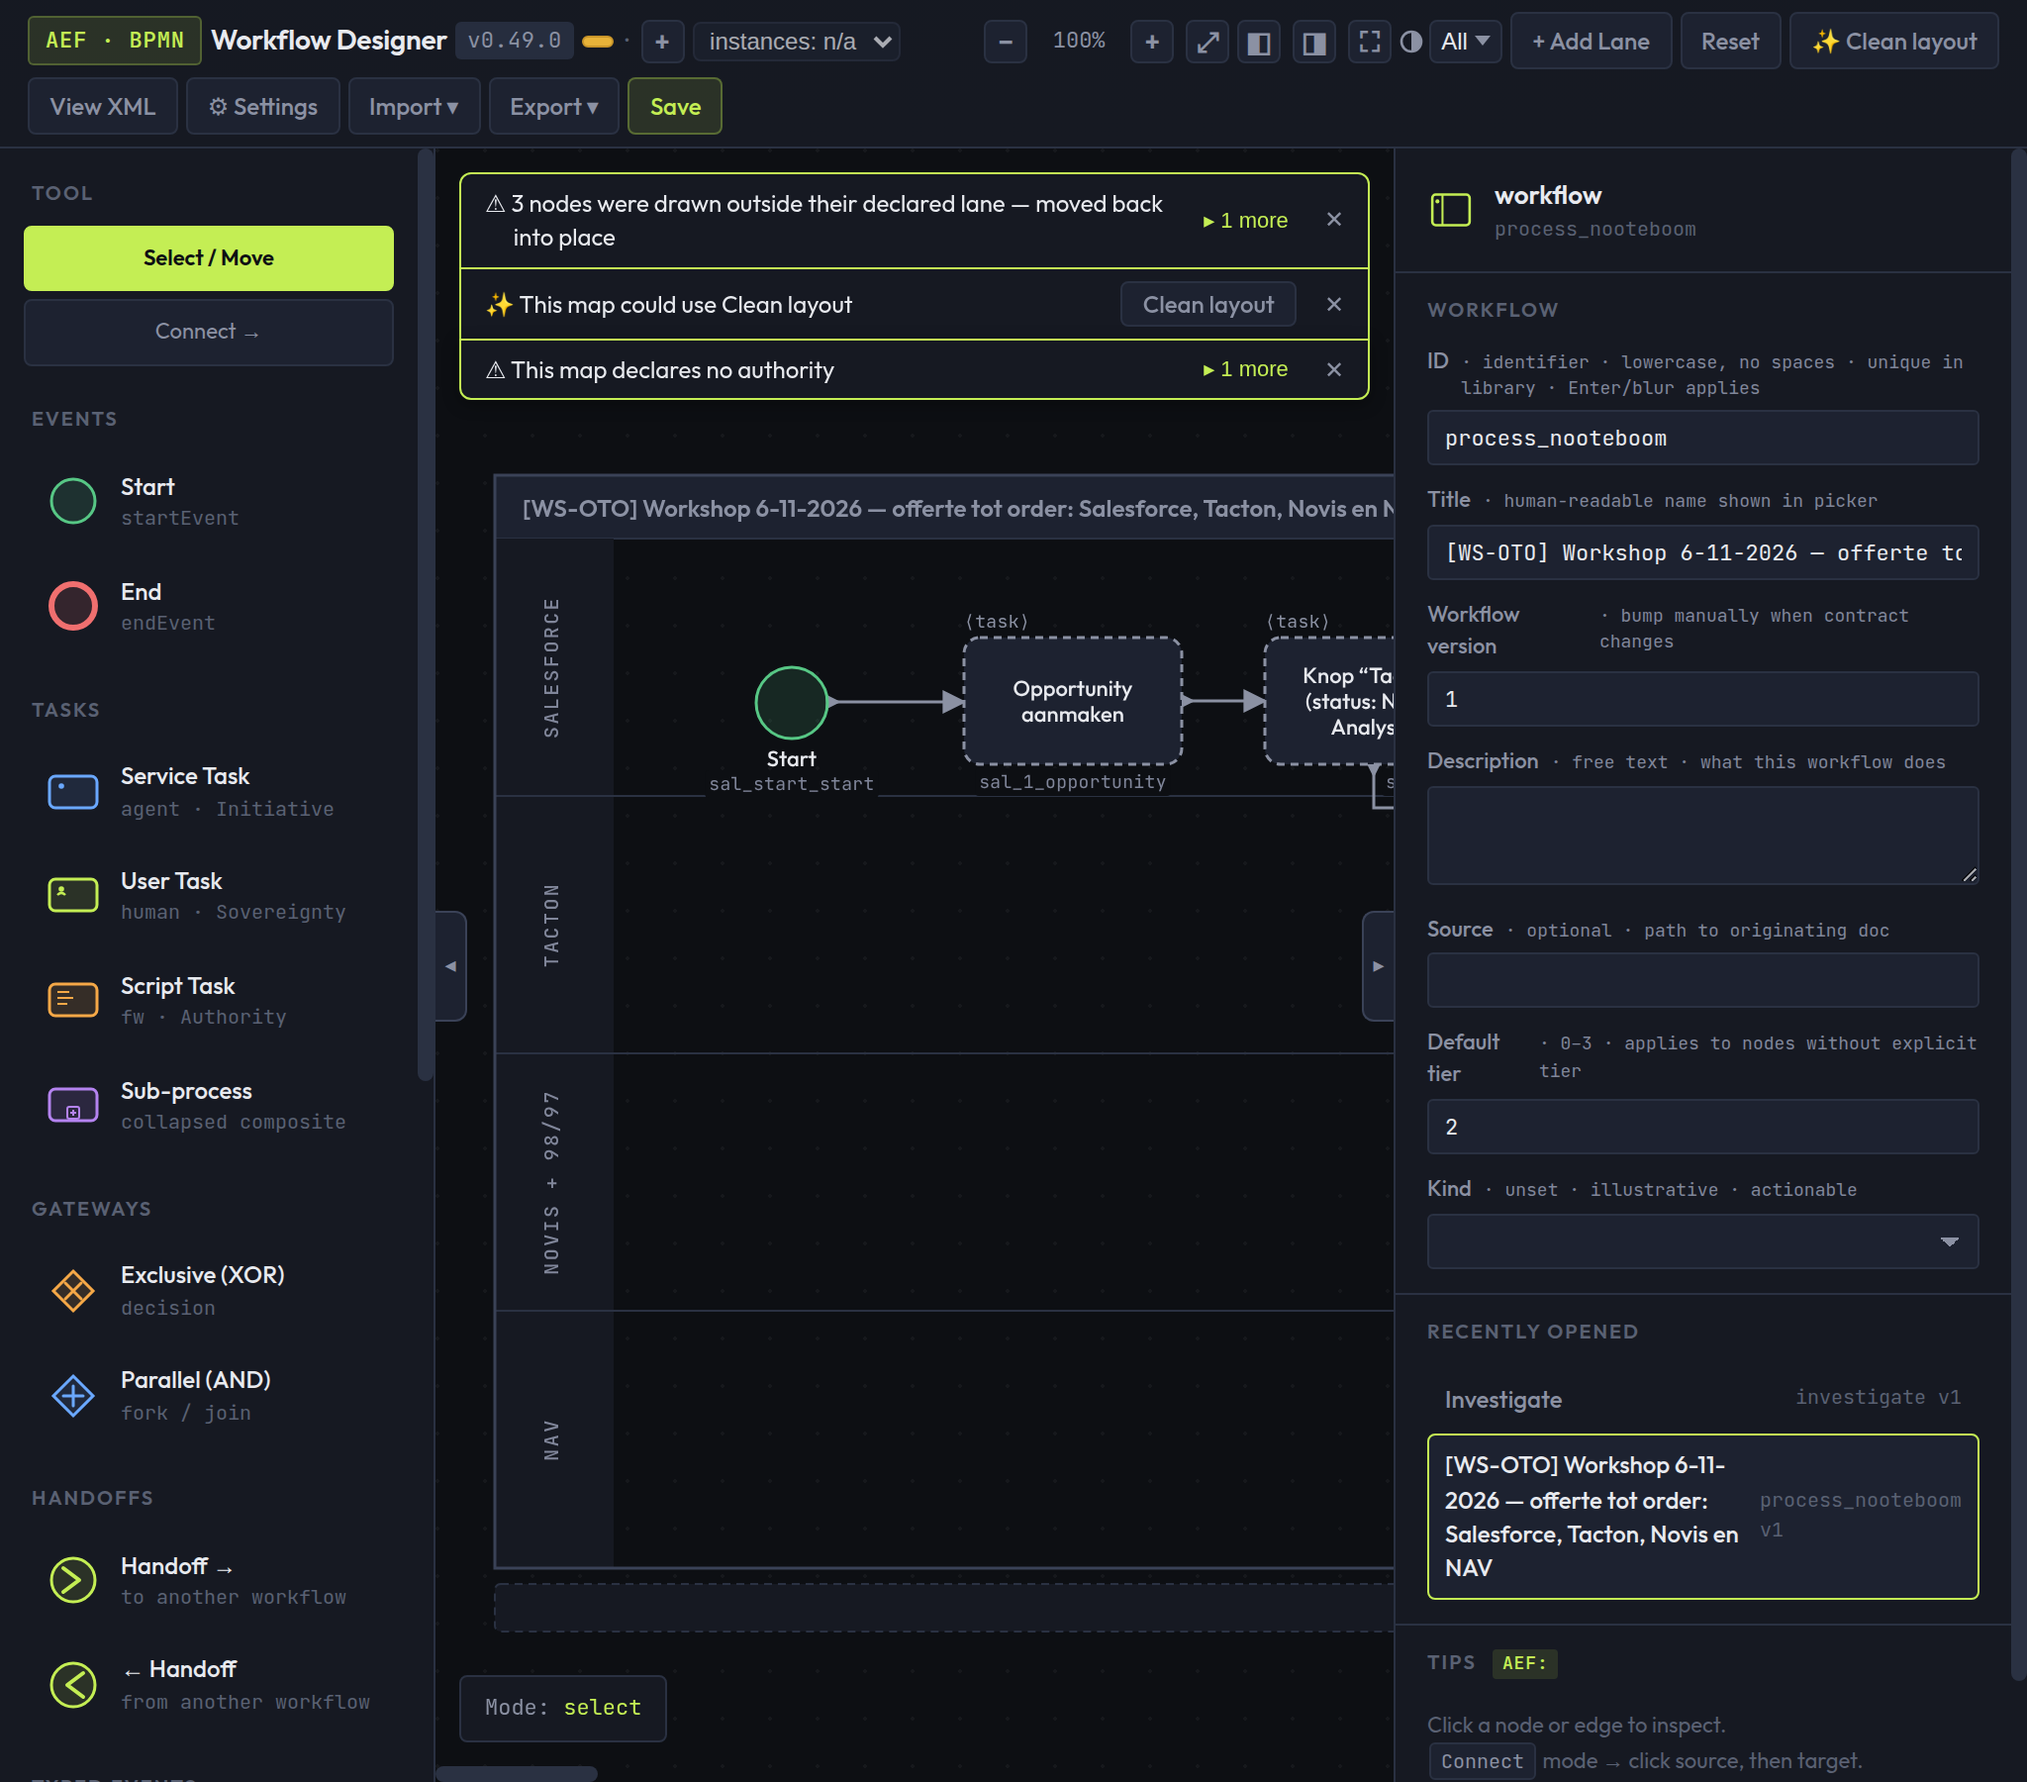
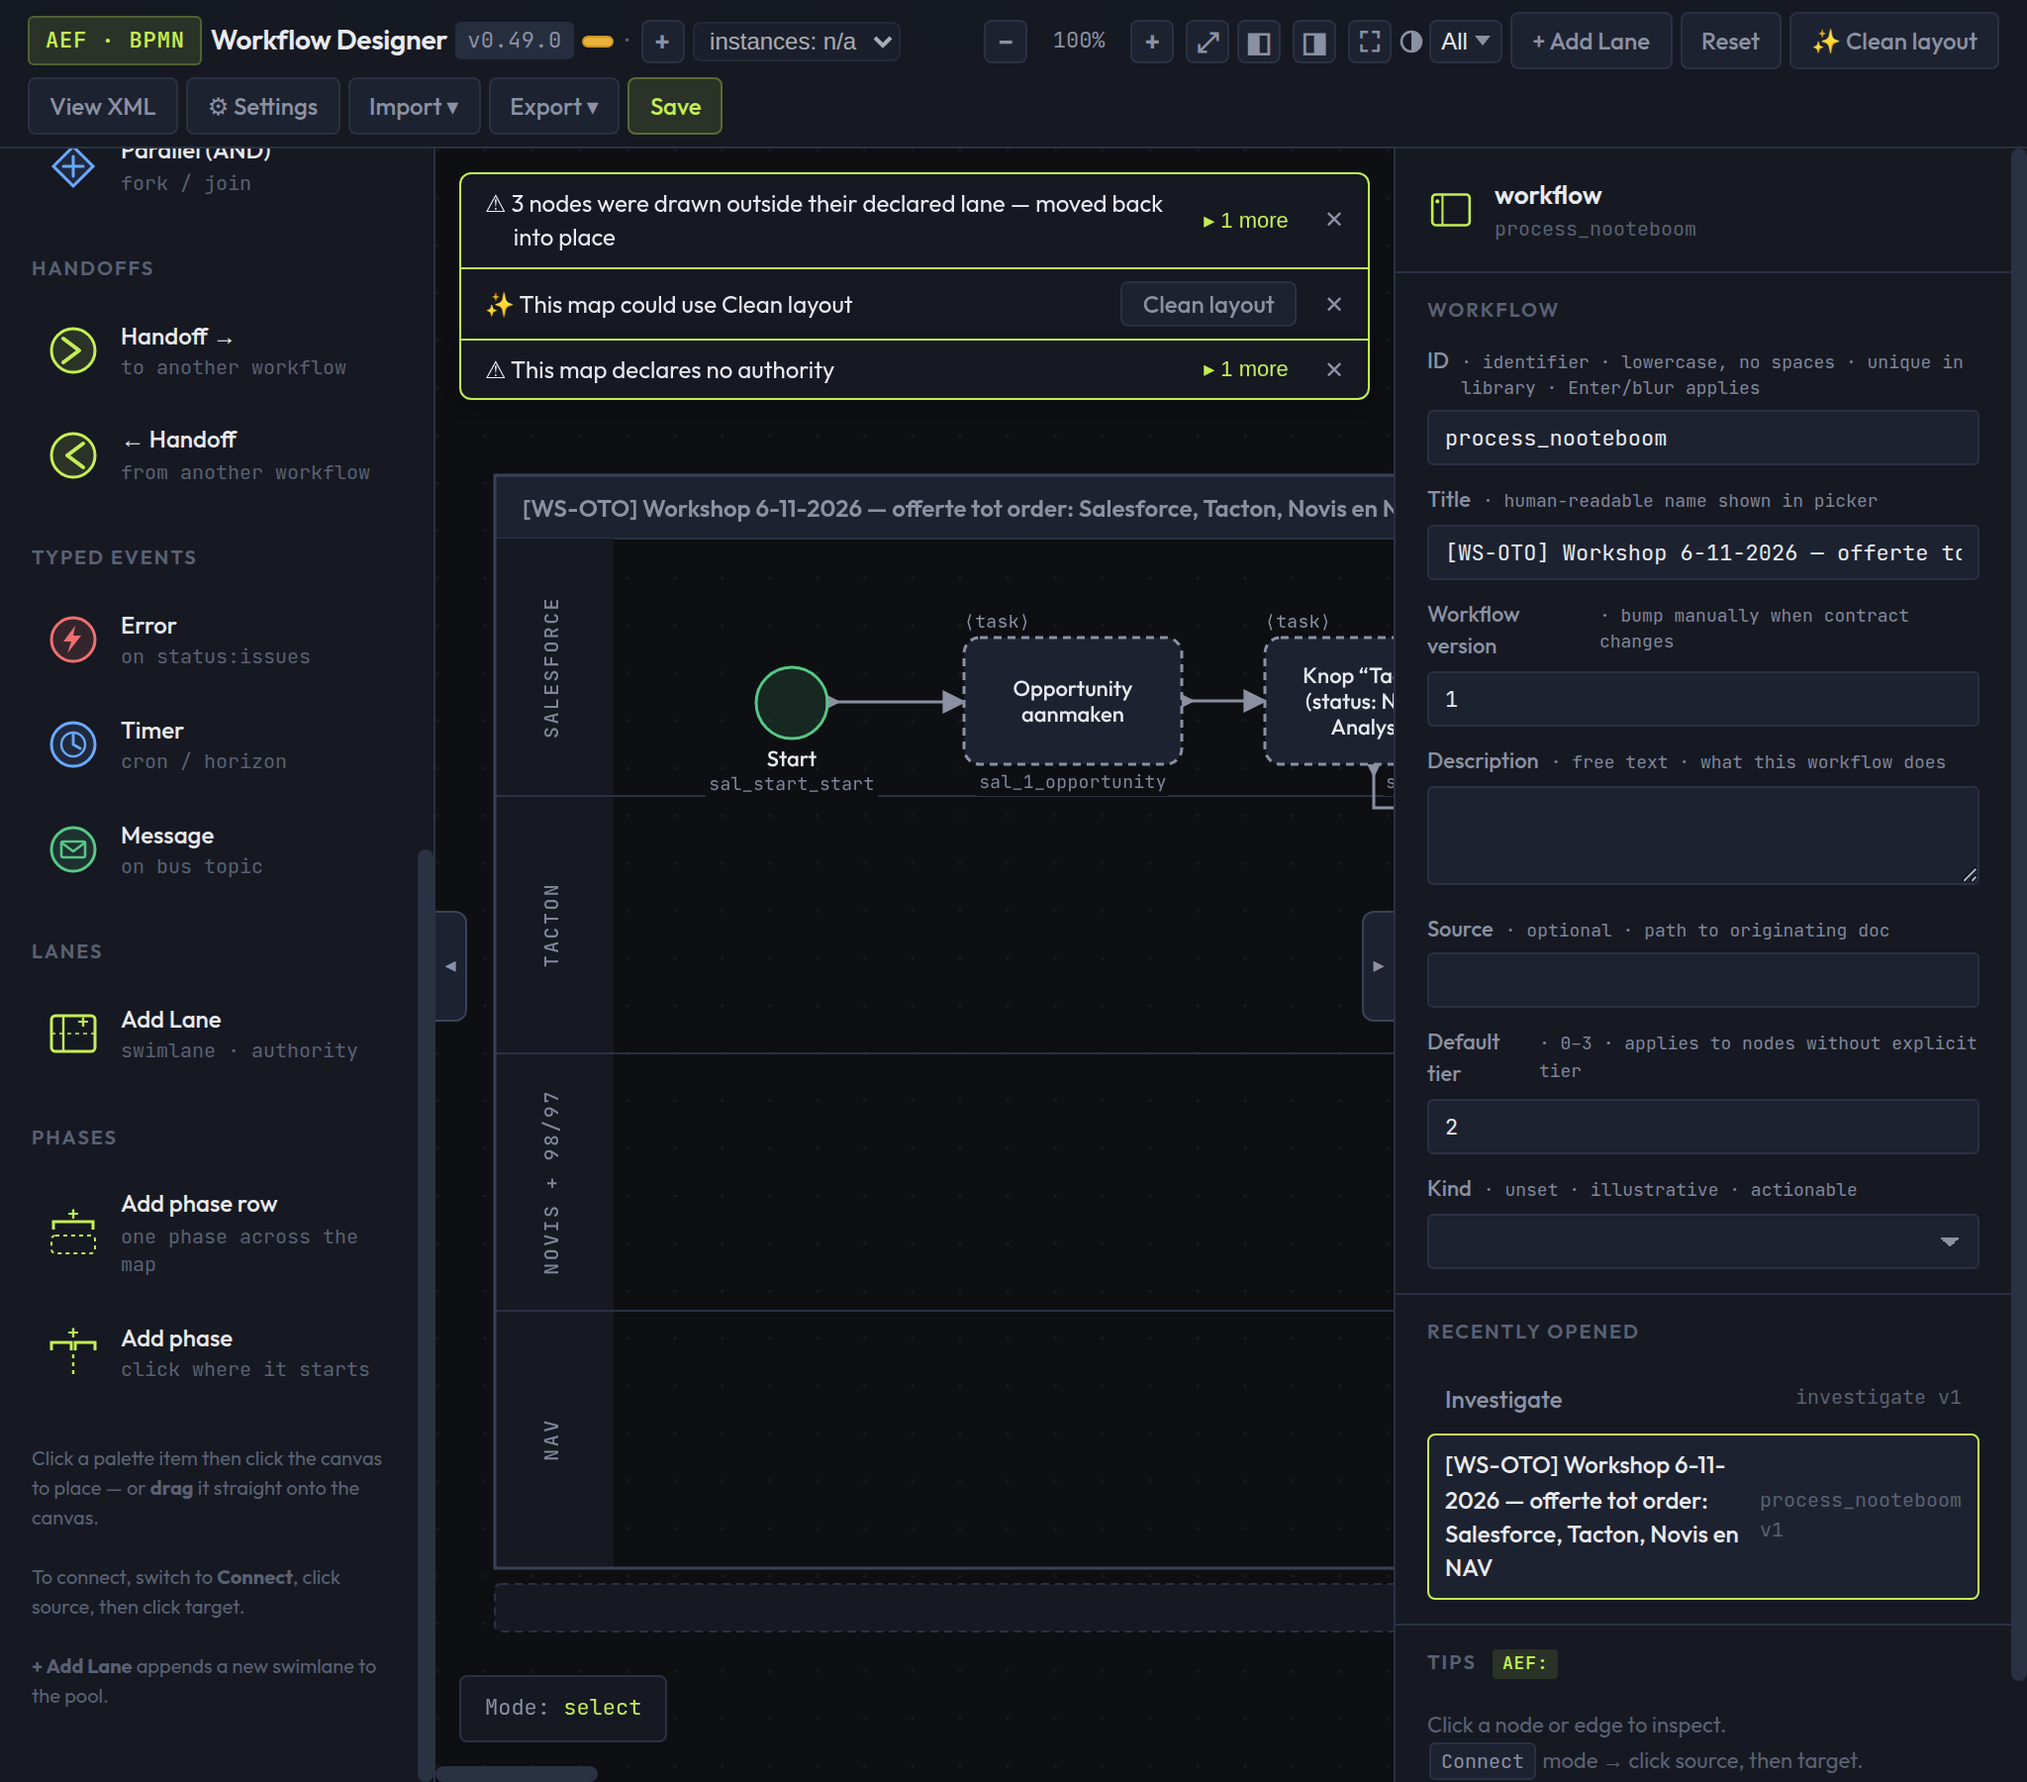
T-1504: shots — palette scrolled to the Phases section (1024), five phases also at 100% (left and right ends); criterion names the fixture file (reviewer amber: sample name, palette-1024, label size)

diff --git a/.tasks/active/T-1504-phases-slice-b-t-1491-go-a-phases-sectio.md b/.tasks/active/T-1504-phases-slice-b-t-1491-go-a-phases-sectio.md
@@ -43,7 +43,7 @@ related_tasks: []
 #                                 # session from consuming the captured→started-work transition the demo
 #                                 # worker expects to drive. Origin OBS-057.
 created: 2026-11-24T11:08:18Z
-last_update: 2026-11-25T10:38:39Z
+last_update: 2026-11-25T10:41:16Z
 date_finished:
 # revisit_at: YYYY-MM-DD          # T-1451: set on DEFER decisions to enable G-053 daily revisit scan
 # revisit_evidence_needed:        # T-1451: one-line description of what evidence makes the revisit actionable
@@ -139,12 +139,15 @@ select the new phase so the panel (slice A) renames it.
   "Add phase row" and "Add phase" do, and sees where the split will land before clicking
   **Judged by:** the independent reviewer on the images (`fw reviewer judge T-1504 --criterion 1`), who may escalate.
   **Steps:**
-  1. `docs/reports/T-1504-shots/palette-{1024,1440,1920}.png` (Greenfield's sample without phases, just opened: the
-     Phases section under Lanes), `row-added-{1024,1440,1920}.png` (after "Add phase row": one bracket across the pool,
+  1. The map in every shot is Greenfield's sample `tests/fixtures/greenfield/ws-otb-fasen-voorbeeld.bpmn` (its process is
+     `process_nooteboom`, "[WS-OTO] Workshop 6-11-2026 …"), with its phases removed by the harness.
+     `docs/reports/T-1504-shots/palette-{1024,1440,1920}.png` (just opened, the left panel scrolled to the Phases section
+     under Lanes), `row-added-{1024,1440,1920}.png` (after "Add phase row": one bracket across the pool,
      row label "Phases", the new phase selected in the panel), `split-preview-{1024,1440,1920}.png` (after "Add phase",
      the pointer over a step gap: the palette item highlighted, the status "add phase: click where it starts", the dashed
-     line where the split would land; it may be off-screen to the right in a shot, the harness asserts it is drawn),
-     `five-phases-{1024,1440,1920}.png` (after four splits: five brackets, dividers at the gaps, the last one selected)
+     line where the split would land), `five-phases-{1024,1440,1920}.png` (after four splits, Fit whole diagram: all five
+     brackets and the dividers at the gaps, the last one selected; names small at that zoom), and the same at 100%,
+     readable: `five-phases-100-left-{W}.png` (phases 1-2) and `five-phases-100-right-{W}.png` (phases 4-5)
   2. Judge: are the two palette items' names and hints clear; is the new row and the selected phase obvious; is
      anything clipped or overlapping
   **Expected:** a person who has added a lane can add a phase row and split it without help; the new phase is visibly
